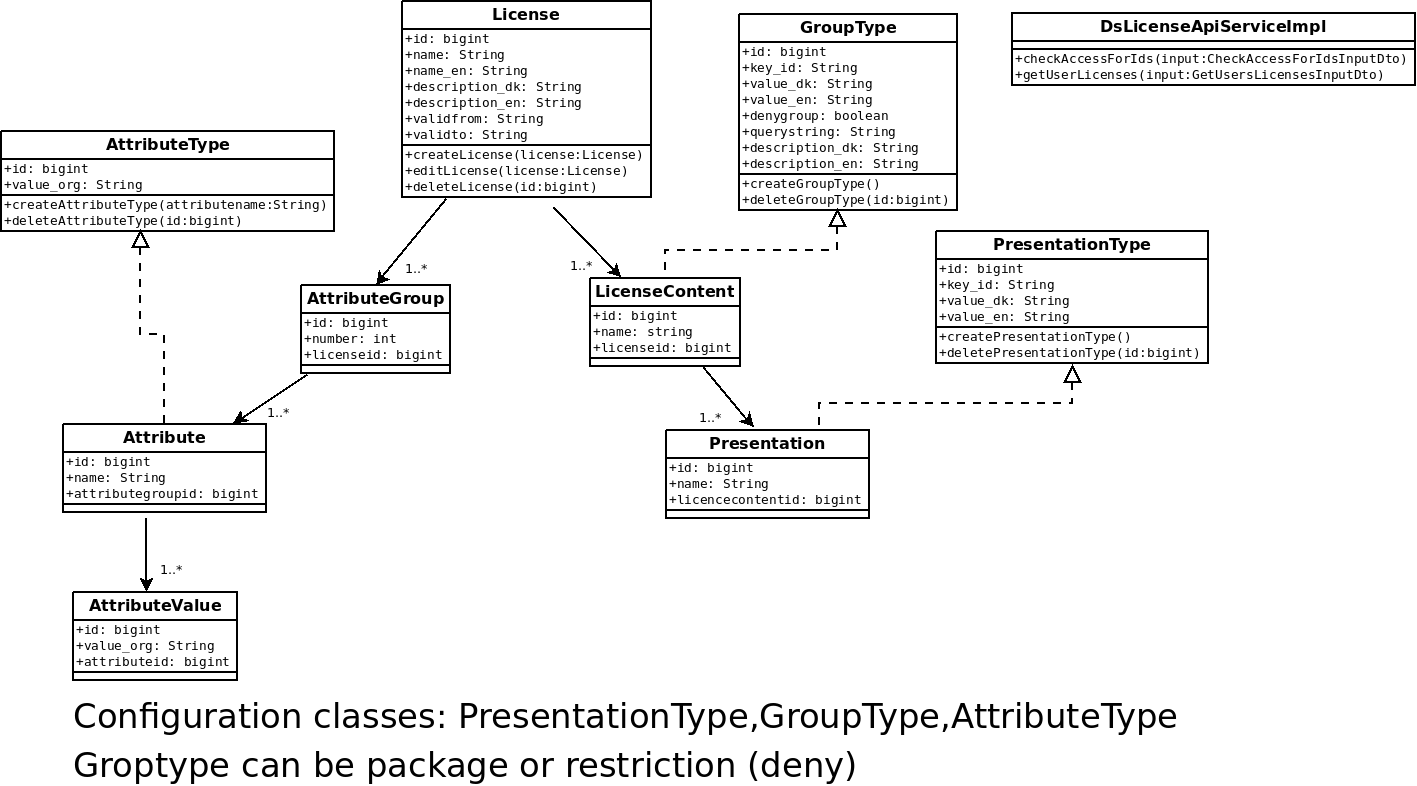
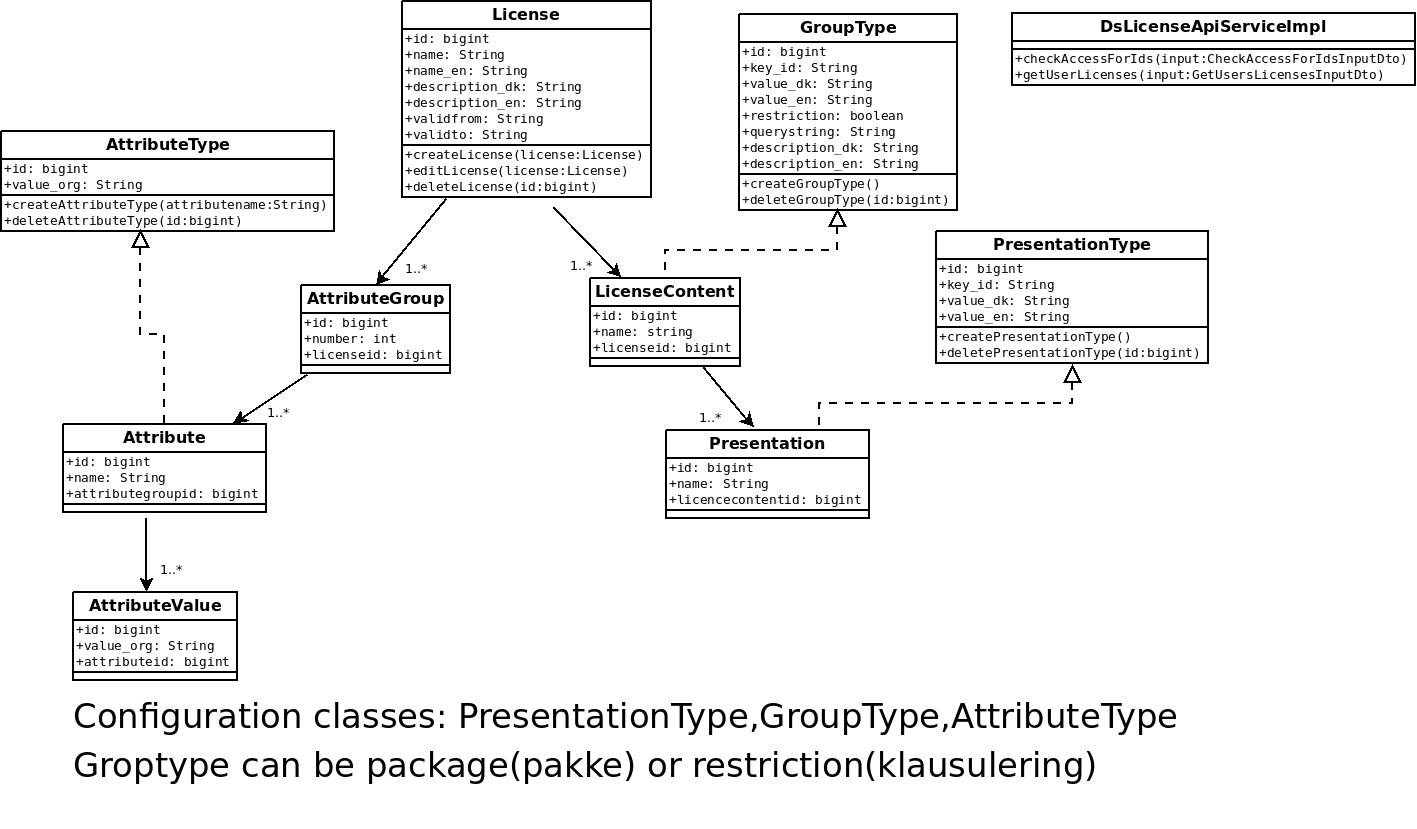
Changes from PR review

diff --git a/ds-license/src/main/java/dk/kb/license/storage/LicenseModuleStorage.java b/ds-license/src/main/java/dk/kb/license/storage/LicenseModuleStorage.java
@@ -499,7 +499,7 @@ public class LicenseModuleStorage implements AutoCloseable {
         boolean validateAttributesValues = license.validateAttributesAndValuesNotNull();
         if (!validateMainFields) {
             throw new IllegalArgumentException(
-                    "Validation error. Name/description too short or validTo/validFrom not legal dates");
+                    "Validation error. Name/description too short or validTo/validFrom not legal dates. Date format is  dd-MM-yyyy");
         }
         if (!validateAttributesValues) {
             throw new IllegalArgumentException("Validation error. Attributes or values can not be empty");

diff --git a/ds-license/src/main/java/dk/kb/license/util/LicenseChangelogGenerator.java b/ds-license/src/main/java/dk/kb/license/util/LicenseChangelogGenerator.java
@@ -150,7 +150,7 @@ public class LicenseChangelogGenerator {
         b.append("value DK/En:"+g.getValue_dk() +" / "+ g.getValue_en()+NEWLINE);
         b.append("Description dk:"+g.getDescription_dk() +NEWLINE);
         b.append("Description en:"+g.getDescription_en() +NEWLINE);
-        b.append("Deny group:"+g.isRestrictionGroup() +NEWLINE);
+        b.append("Restriction group:"+g.isRestrictionGroup() +NEWLINE);
         b.append("Query:"+g.getQuery() +NEWLINE);          
         return b.toString();
     }
